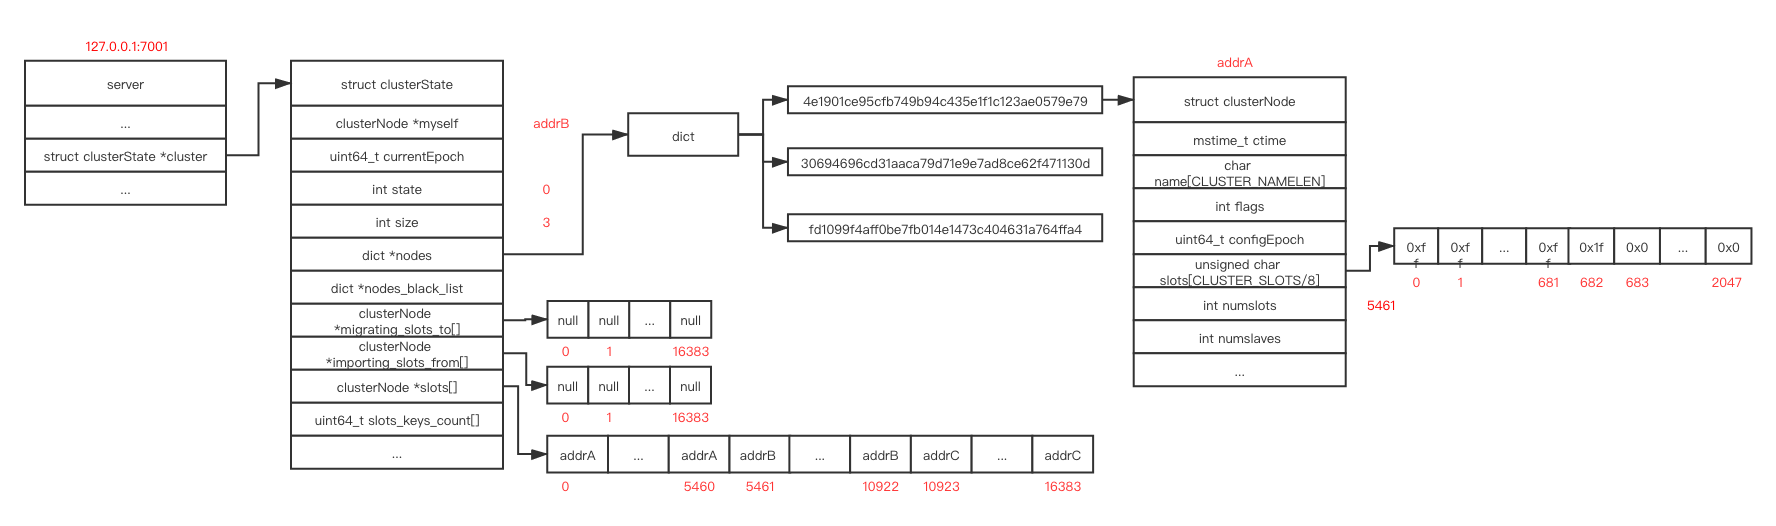
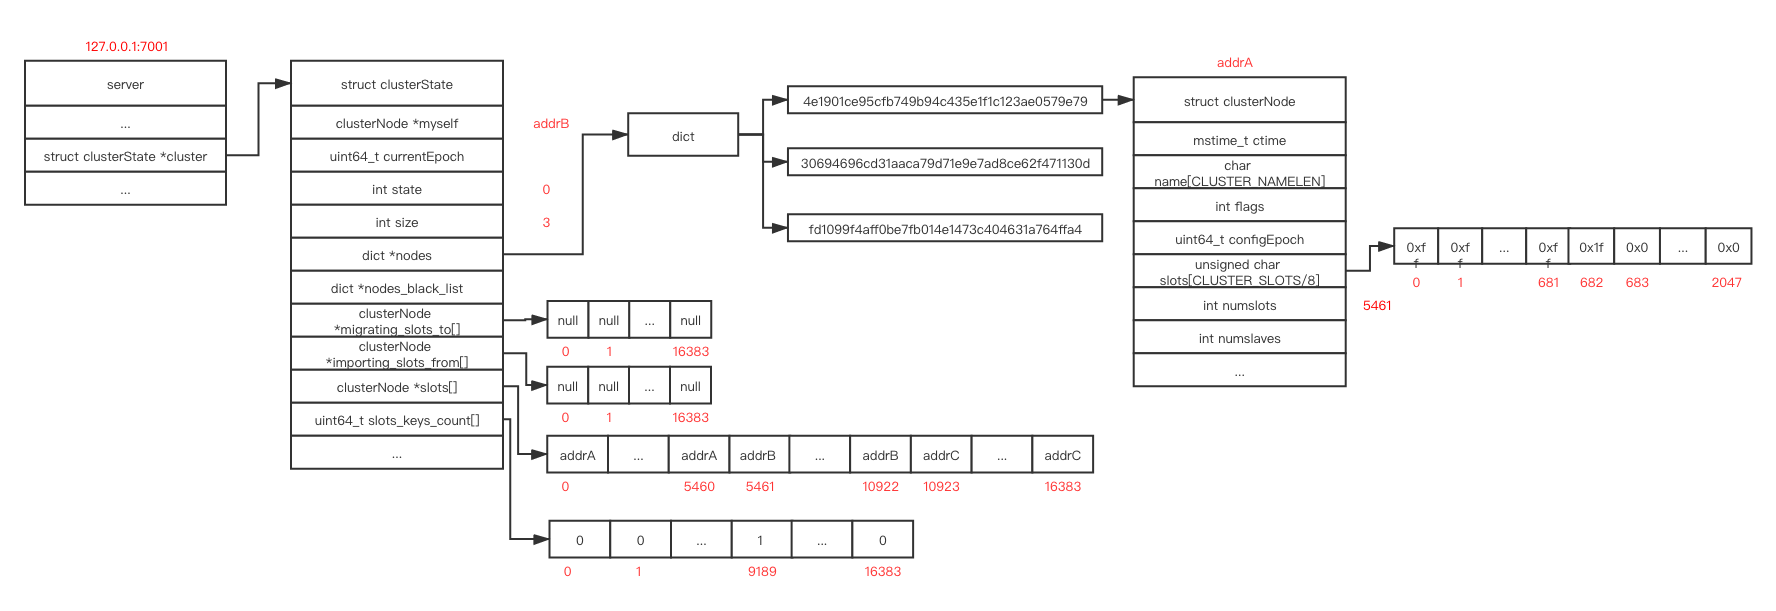
cluster v0.3

Changed region(s): [[0.0, 0.0608, 0.991, 0.943], [0.6503, 0.73, 0.7432, 0.7605], [0.2787, 0.3954, 0.3407, 0.4259]]

diff --git a/Server/cluster/cluster.md b/Server/cluster/cluster.md
@@ -96,9 +96,21 @@ The above diagram is part of the cluster status in `127.0.0.1:7001`
 
 `myself` points to the master cluster node for current server instance
 
+`currentEpoch` is the epoch number in current node
+
 `size` is the cluster size
 
+`nodes` is a dictionary, stores all the nodes as `clusterNode` structure in the cluster, `node ID` as key, and `clusterNode` as value, `clusterNode` stores all the information needed, such as slot bitmap
 
+`migrating_slots_to` is an array of pointer, length 16384, if there's any slot in  `migrating_slots_to` state, the `migrating_slots_to[i]` will stores the pointer pointed to that `clusterNode`
+
+`importing_slots_from` is similar to `migrating_slots_to`
+
+`slots` is an array of pointer, length is 16384, each pointer points to the `clusterNode` structure the slot belongs to
+
+`slots_keys_count` stores number of emelents for every slots
+
+And
 
 `key1` is currently in slot 9189 and slot 9189 in located in `127.0.0.1:7001`
 
